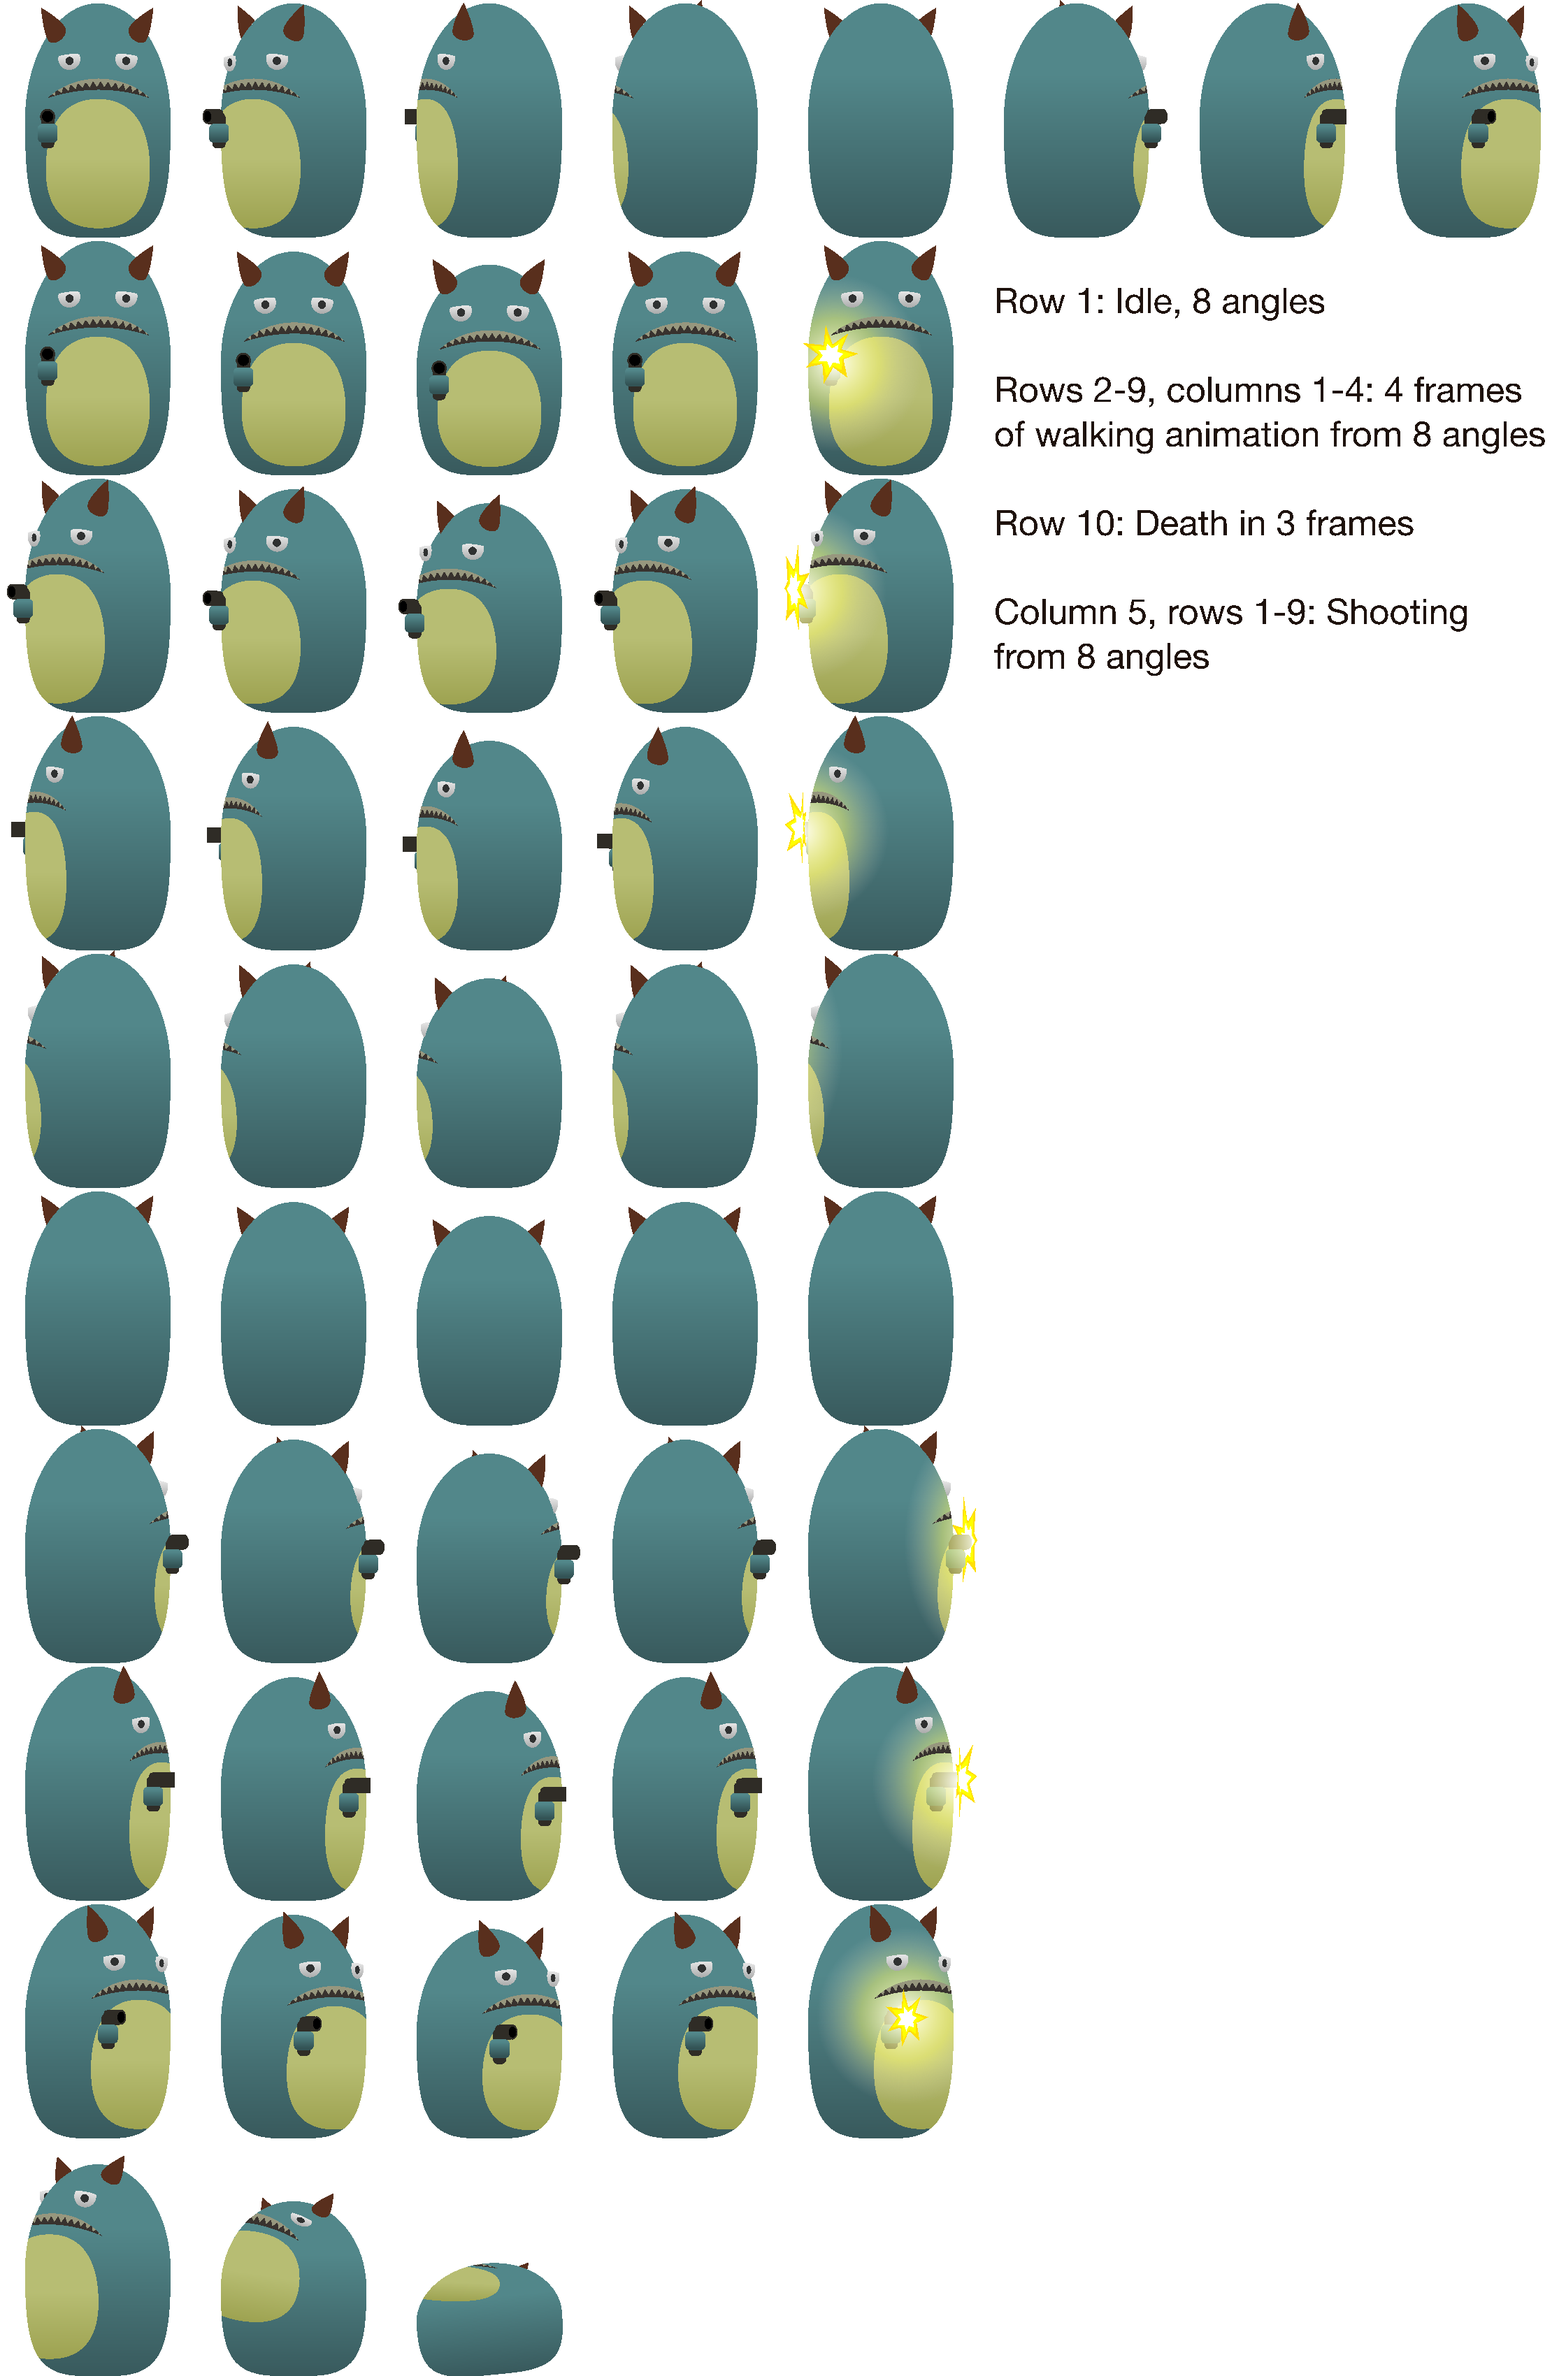
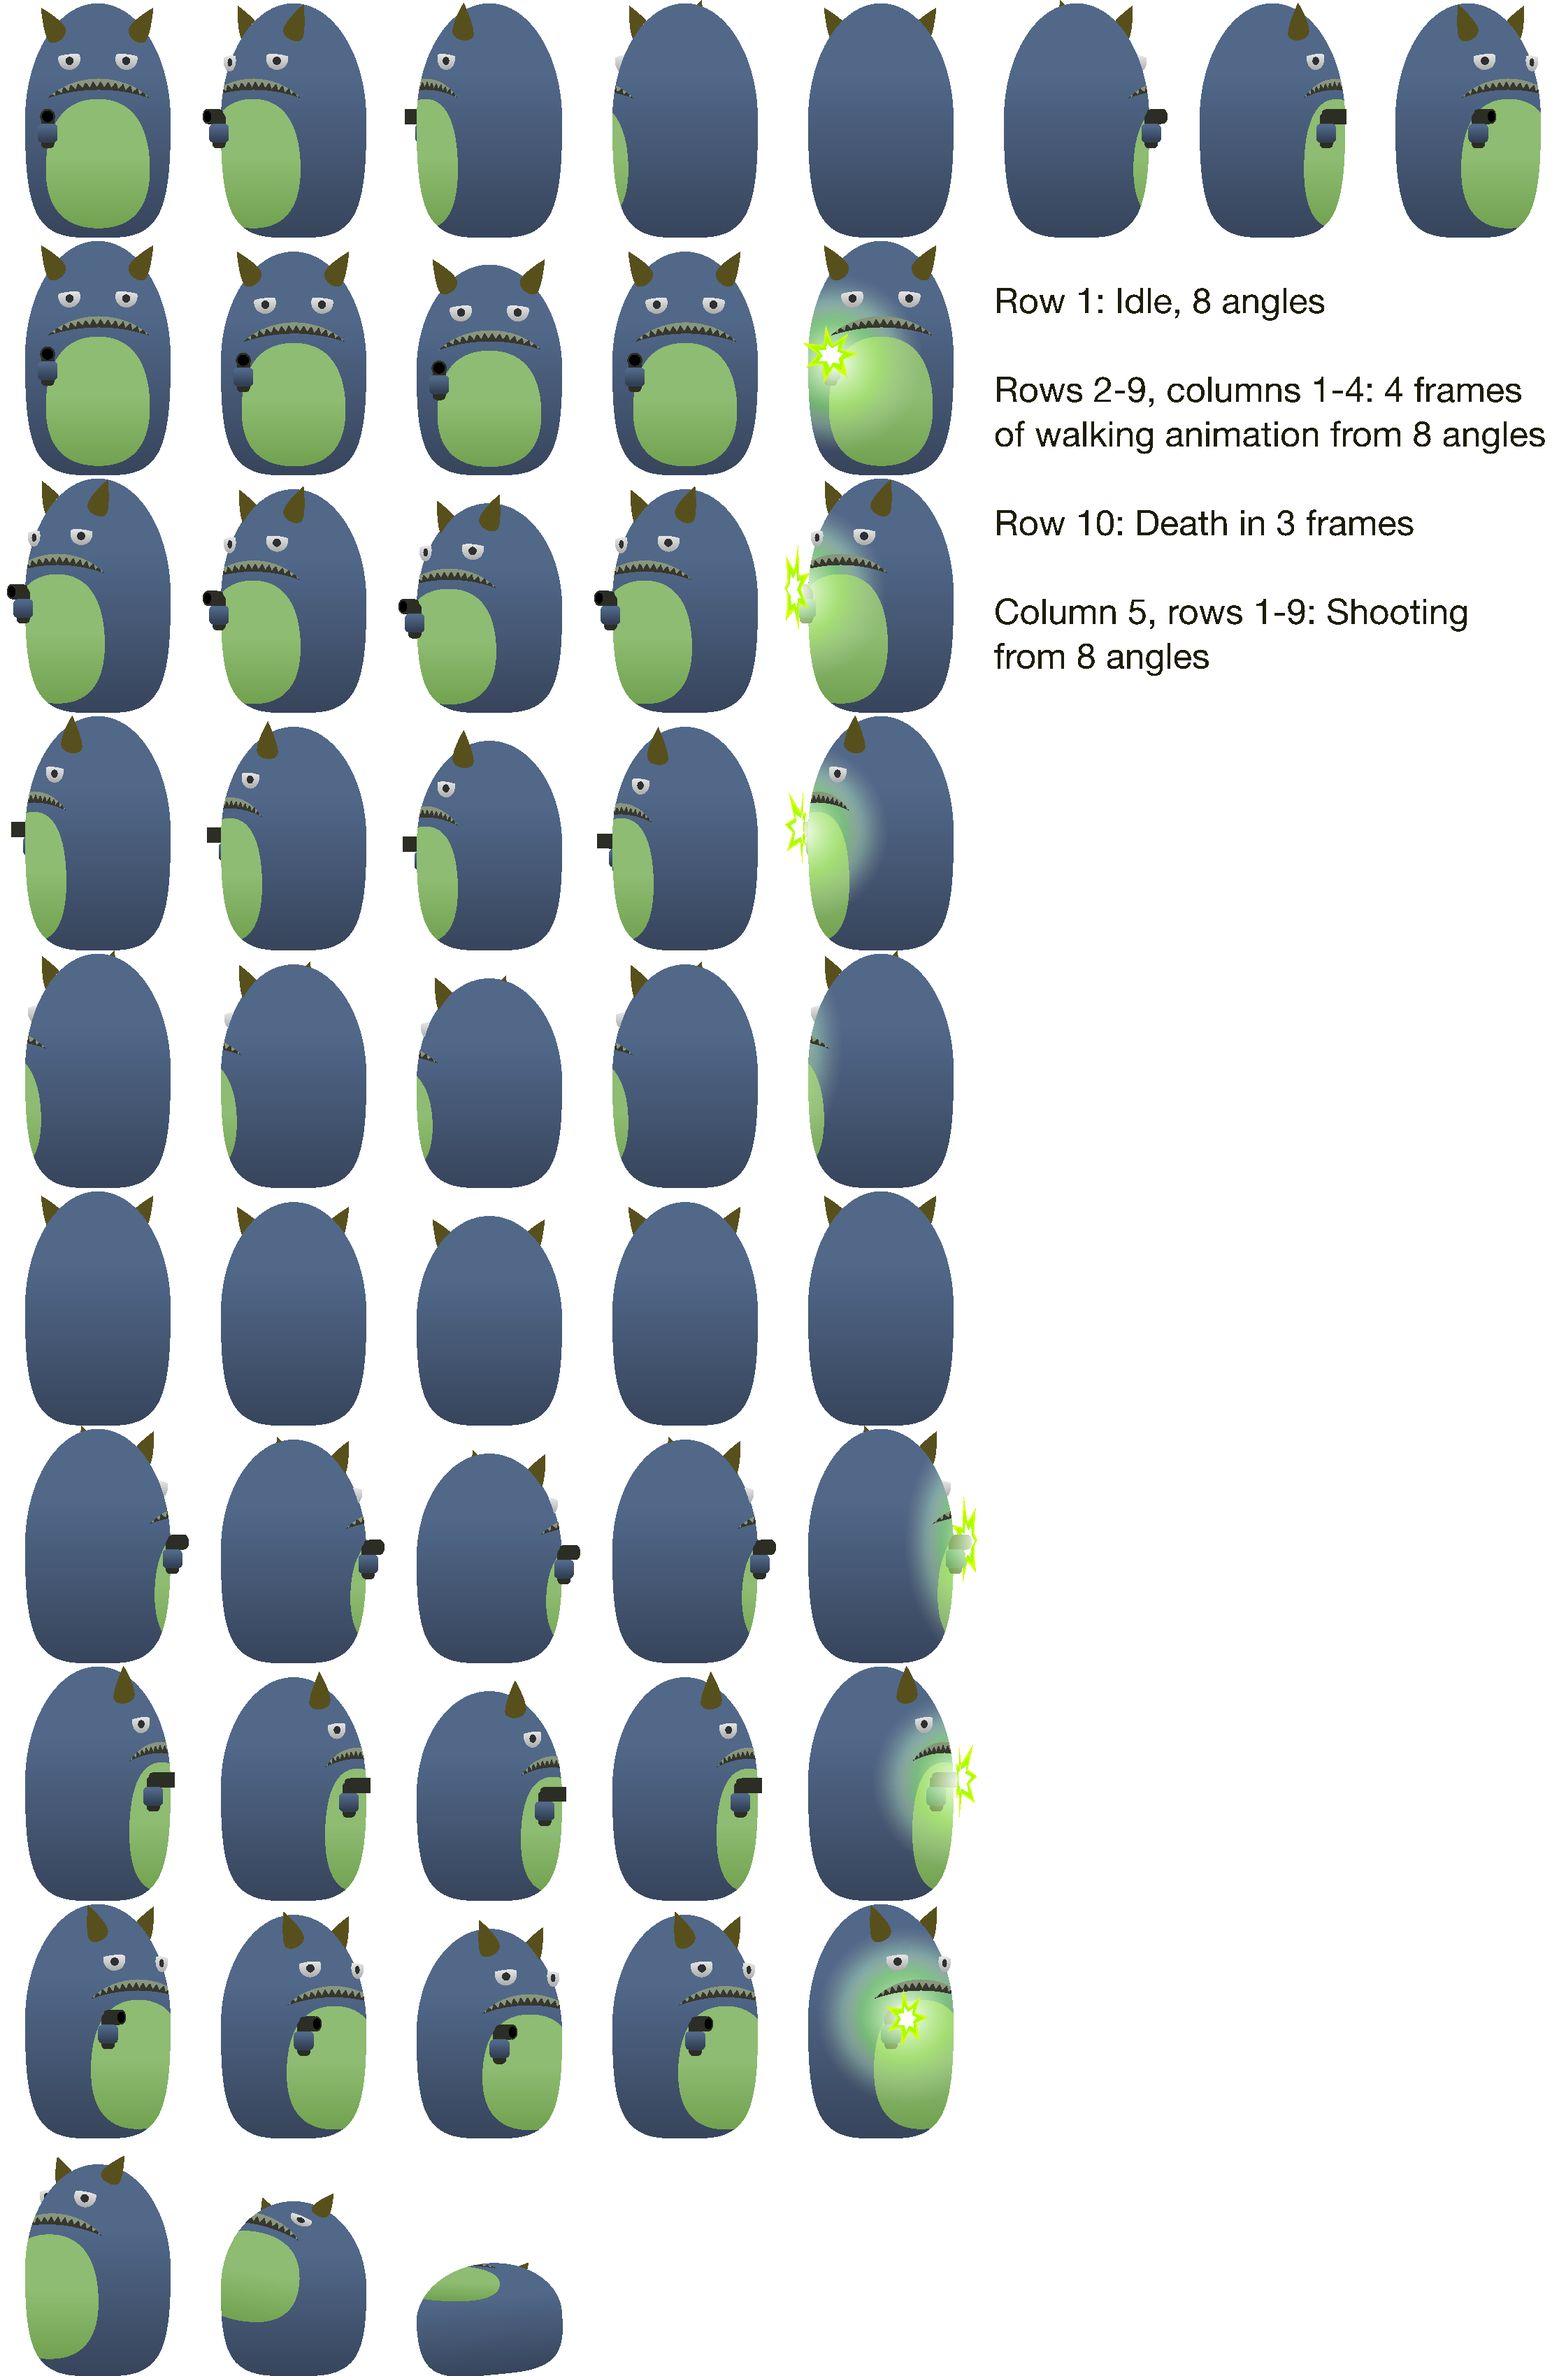
programatically generate color variations

Changed region(s): [[0.0, 0.0, 1.0, 0.9976]]

diff --git a/src/spritesheet.rs b/src/spritesheet.rs
@@ -2,6 +2,9 @@ use crate::{consts::CYAN_TRANSPARENT, textures::Texture};
 use image::error::{ParameterError, ParameterErrorKind};
 use image::{self, GenericImageView};
 
+use image::{DynamicImage, RgbaImage};
+use palette::{FromColor, Hsv, Srgb};
+
 #[derive(Debug)]
 pub struct SpriteSheet {
     pub idle: [Texture; 8],
@@ -85,5 +88,58 @@ impl SpriteSheet {
             });
         }
         Ok(frames)
+    }
+}
+
+fn shift_hue(img: &DynamicImage, degrees: f32) -> RgbaImage {
+    let mut out = RgbaImage::new(img.width(), img.height());
+
+    for (x, y, pixel) in img.pixels() {
+        let r = pixel[0] as f32 / 255.0;
+        let g = pixel[1] as f32 / 255.0;
+        let b = pixel[2] as f32 / 255.0;
+        let a = pixel[3];
+
+        // Convert pixel to linear RGB
+        let rgb = Srgb::new(r, g, b).into_linear();
+        let mut hsv = Hsv::from_color(rgb);
+
+        // Modify hue
+        hsv.hue += degrees;
+
+        // Convert back to *nonlinear* Srgb
+        let linear_rgb = palette::rgb::Rgb::from_color(hsv);
+        let new_rgb: Srgb<f32> = Srgb::from_linear(linear_rgb);
+        let to_u8 = |v: f32| (v.clamp(0.0, 1.0) * 255.0) as u8;
+
+        out.put_pixel(
+            x,
+            y,
+            image::Rgba([
+                to_u8(new_rgb.red),
+                to_u8(new_rgb.green),
+                to_u8(new_rgb.blue),
+                a,
+            ]),
+        );
+    }
+
+    out
+}
+
+pub fn hue_variations(path: &str) {
+    let base = image::open(path).expect("can't load base sheet");
+
+    for i in 1..10 {
+        let out = format!("assets/blob{i}.png");
+        if std::path::Path::new(&out).exists() {
+            println!("{} exists", out);
+            continue;
+        }
+
+        let degrees = 360.0 * (i as f32 / 10.0);
+        println!("giving it {} degrees", degrees);
+        let shifted = shift_hue(&base, degrees);
+        shifted.save(&out).unwrap();
     }
 }

diff --git a/src/bin/client.rs b/src/bin/client.rs
@@ -17,6 +17,7 @@ use fps::{
     ClientMessage, GameState, Input, ServerMessage,
     consts::{FRAME_TIME, HEIGHT, MOUSE_SPEED, PORT, WIDTH},
     renderer::Renderer,
+    spritesheet::hue_variations,
     textures::TextureManager,
 };
 
@@ -134,17 +135,29 @@ fn main() -> Result<()> {
         Pixels::new(WIDTH as u32, HEIGHT as u32, surface_texture)?
     };
 
+    // generate hue variations of the spritesheet
+    hue_variations("assets/blob0.png");
+
+    println!("variations done");
+
     // define all necessary spritesheets
     let mut texture_manager = TextureManager::new();
     fps::textures::load_game_textures(&mut texture_manager)?;
+
+    println!("loaded textures");
+
     let mut spritesheets = HashMap::new();
     // key matches player's texture property
-    spritesheets.insert(
-        "teal".to_owned(),
-        fps::spritesheet::SpriteSheet::new("assets/blob1.png")?,
-    );
-
+    for i in 0..10 {
+        spritesheets.insert(
+            format!("{i}"),
+            fps::spritesheet::SpriteSheet::new(&format!("assets/blob{i}.png"))?,
+        );
+    }
     let mut renderer = Renderer::new(texture_manager, spritesheets);
+
+    println!("renderer sheets: {:?}", renderer.sprite_sheets.keys());
+
     let mut game_state: Option<GameState> = None;
 
     let mut frame_count = 0;

diff --git a/src/renderer.rs b/src/renderer.rs
@@ -5,8 +5,8 @@ use crate::{
     Direction, GameState,
     consts::{
         CAMERA_HEIGHT_OFFSET, CAMERA_PLANE_SCALE, CEILING_COLOR, FLOOR_COLOR, HEIGHT,
-        SPRITE_OTHER_PLAYER_HEIGHT, SPRITE_OTHER_PLAYER_WIDTH,
-        WALL_COLOR_PRIMARY, WALL_COLOR_SECONDARY, WIDTH,
+        SPRITE_OTHER_PLAYER_HEIGHT, SPRITE_OTHER_PLAYER_WIDTH, WALL_COLOR_PRIMARY,
+        WALL_COLOR_SECONDARY, WIDTH,
     },
     spritesheet::SpriteSheet,
     textures::TextureManager,

diff --git a/src/lib.rs b/src/lib.rs
@@ -105,7 +105,7 @@ impl Player {
             velocity_z: 0.0,
             move_speed: DEFAULT_PLAYER_MOVE_SPEED,
             rot_speed: DEFAULT_PLAYER_ROT_SPEED,
-            texture: "teal".to_string(),
+            texture: "1".to_string(),
             animation_state: AnimationState::Idle,
             direction: Direction::Front,
             frame: 0,
